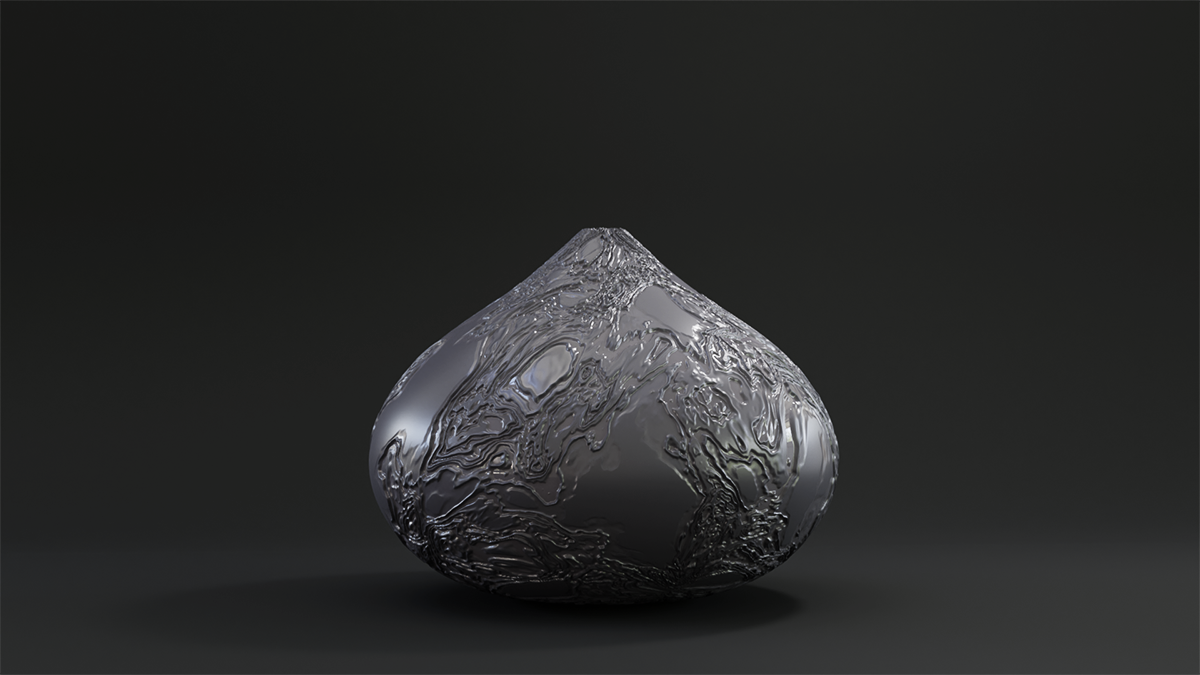
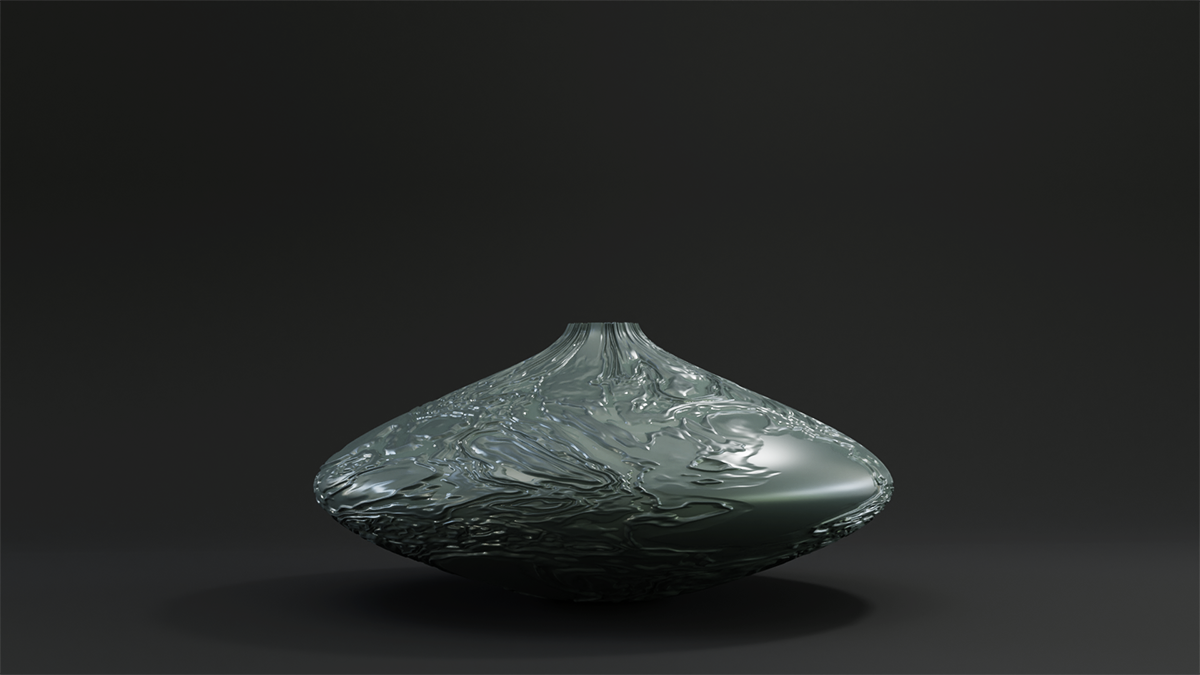
Discriptions are updated for the newly added projects. The Ripple project is updated with modified text and images

Changed region(s): [[0.2467, 0.3111, 0.74, 0.8711], [0.6475, 0.9022, 0.7092, 0.9333]]

diff --git a/projects/RIPPLE/details.html b/projects/RIPPLE/details.html
@@ -1,8 +1,8 @@
 <html lang="en-US">
     <head>
-        <title>Creepy Cute</title>
+        <title>The Ripple</title>
         <meta http-equiv="Content-Type" content="text/html; charset=UTF-8">
-        <meta name="description" content="Creepy Cute: Design by Ali Ghomi" />
+        <meta name="description" content="The Ripple: Design by Ali Ghomi" />
         <meta name="keywords" content="HTML, CSS, JavaScript, PHP" />
         <meta name="author" content="DryThemes" />
         <meta name="viewport" content="width=device-width, initial-scale=1, maximum-scale=1">
@@ -88,6 +88,10 @@
                                 <li>
                                     <img src="sliderImages/5.png" alt="">
                                 </li>
+                                <li>
+                                    <img src="sliderImages/6.png" alt="">
+                                </li>
+
 
                             </ul>
                             <div class="slider1_pagination carousel_pagination left"></div>
@@ -99,9 +103,13 @@
                         <div class="my-detail-title">The Ripple Collection</div>
                         <div class="one_half">
                             <article class="my-detail-content">
-                                The Ripple collection design is inspired by the effects and the qualities of reflected light from floating oil-based fluids over water. It isolates and reconfigures the patterns and colors in three dimensions to create a unique and elegant aesthetics.
-                            </article>
+                                Light is one of the most mysterious things for me. We depend on it to understand our surroundings but it often tricks us and shows us amazing things that don’t exist. The sparkles of shiny sands on the beach or the colorful beam lights coming through a cathedral window. Although those sands are not gem stones and those colorful light beams are nothing but dust in the air, they are so beautiful that people travel long distances to experience them. The Ripple project is inspired by one of these gems. The effects of the reflected light from floating oil-based fluids over water. In the Ripple project I tried to isolate and reconfigure the patterns and colors of those reflections in three dimensions to create a unique and elegant aesthetics. I’m using this aesthetics to design series of home accessories, furnitures and environments.                            </article>
                         </div>
+                        <div class="one_half last">
+                            <article class="my-detail-content">
+                                Since the pattern is intricate and complex the simple form of the object creates a contrast that lets the eye to rest and circulate freely from one point to another. I used a complementary color pallet inspired by the Thin-film interference phenomenon. So when the pieces come together in harmony.
+                        </div>
+
                         <div class="clear"></div>
                     </div>
                 </article>

diff --git a/projects/BLOOM/details.html b/projects/BLOOM/details.html
@@ -1,8 +1,8 @@
 <html lang="en-US">
     <head>
-        <title>Creepy Cute</title>
+        <title>The Bloom</title>
         <meta http-equiv="Content-Type" content="text/html; charset=UTF-8">
-        <meta name="description" content="Creepy Cute: Design by Ali Ghomi" />
+        <meta name="description" content="The Bloom: Design by Ali Ghomi" />
         <meta name="keywords" content="HTML, CSS, JavaScript, PHP" />
         <meta name="author" content="DryThemes" />
         <meta name="viewport" content="width=device-width, initial-scale=1, maximum-scale=1">
@@ -94,7 +94,7 @@
 
                     <div class="content-1330 center-relative block">
                         <div class="my-detail-title">The Bloom</div>
-                        <div class="one_half">
+                        <div class="one">
 
                             <article class="my-detail-content">
                                 One of my most inspiring memories is when I visited a pomegranate garden in Kashan, Iran. The pomegranate trees had the most beautiful blooms that were just spreading, energy, joy, and happiness in the atmosphere around us. That beautiful scene became the main inspiration behind the Bloom Vase

diff --git a/projects/FLAME/details.html b/projects/FLAME/details.html
@@ -1,8 +1,8 @@
 <html lang="en-US">
     <head>
-        <title>Creepy Cute</title>
+        <title>The Flame</title>
         <meta http-equiv="Content-Type" content="text/html; charset=UTF-8">
-        <meta name="description" content="Creepy Cute: Design by Ali Ghomi" />
+        <meta name="description" content="The Flame: Design by Ali Ghomi" />
         <meta name="keywords" content="HTML, CSS, JavaScript, PHP" />
         <meta name="author" content="DryThemes" />
         <meta name="viewport" content="width=device-width, initial-scale=1, maximum-scale=1">
@@ -90,7 +90,7 @@
 
                     <div class="content-1330 center-relative block">
                         <div class="my-detail-title">The Flame</div>
-                        <div class="one_half">
+                        <div class="one">
 
                             <article class="my-detail-content">
                                 I see calligraphy as a link between the oral and written emotions towards a visual language. To me, it looks like the words are dancing in the paper. I incorporated this medium in my artwork, the Flame, to create a dynamic and emotional movement between the physical and virtual worlds.

diff --git a/projects/LILY CHAIR/details.html b/projects/LILY CHAIR/details.html
@@ -1,8 +1,8 @@
 <html lang="en-US">
     <head>
         <title>Creepy Cute</title>
-        <meta http-equiv="Content-Type" content="text/html; charset=UTF-8">
-        <meta name="description" content="Creepy Cute: Design by Ali Ghomi" />
+        <meta http-equiv="Lily Chair" content="text/html; charset=UTF-8">
+        <meta name="description" content="Lily Chair: Design by Ali Ghomi" />
         <meta name="keywords" content="HTML, CSS, JavaScript, PHP" />
         <meta name="author" content="DryThemes" />
         <meta name="viewport" content="width=device-width, initial-scale=1, maximum-scale=1">

diff --git a/projects/HIVE COLLECTION/details.html b/projects/HIVE COLLECTION/details.html
@@ -1,8 +1,8 @@
 <html lang="en-US">
     <head>
-        <title>The Invisible Tower</title>
+        <title>The Hive</title>
         <meta http-equiv="Content-Type" content="text/html; charset=UTF-8">
-        <meta name="description" content="The Invisible Tower: Design by Ali Ghomi" />
+        <meta name="description" content="The Hive: Design by Ali Ghomi" />
         <meta name="keywords" content="HTML, CSS, JavaScript, PHP" />
         <meta name="author" content="DryThemes" />
         <meta name="viewport" content="width=device-width, initial-scale=1, maximum-scale=1">

diff --git a/projects/LUMINSKIN/details.html b/projects/LUMINSKIN/details.html
@@ -1,8 +1,8 @@
 <html lang="en-US">
     <head>
-        <title>Creepy Cute</title>
+        <title>LuminSkin</title>
         <meta http-equiv="Content-Type" content="text/html; charset=UTF-8">
-        <meta name="description" content="Creepy Cute: Design by Ali Ghomi" />
+        <meta name="description" content="LuminSkin: Design by Ali Ghomi" />
         <meta name="keywords" content="HTML, CSS, JavaScript, PHP" />
         <meta name="author" content="DryThemes" />
         <meta name="viewport" content="width=device-width, initial-scale=1, maximum-scale=1">

diff --git a/projects/PHARAOH/details.html b/projects/PHARAOH/details.html
@@ -1,8 +1,8 @@
 <html lang="en-US">
     <head>
-        <title>Creepy Cute</title>
+        <title>Pharaoh</title>
         <meta http-equiv="Content-Type" content="text/html; charset=UTF-8">
-        <meta name="description" content="Creepy Cute: Design by Ali Ghomi" />
+        <meta name="description" content="Pharaoh: Design by Ali Ghomi" />
         <meta name="keywords" content="HTML, CSS, JavaScript, PHP" />
         <meta name="author" content="DryThemes" />
         <meta name="viewport" content="width=device-width, initial-scale=1, maximum-scale=1">
